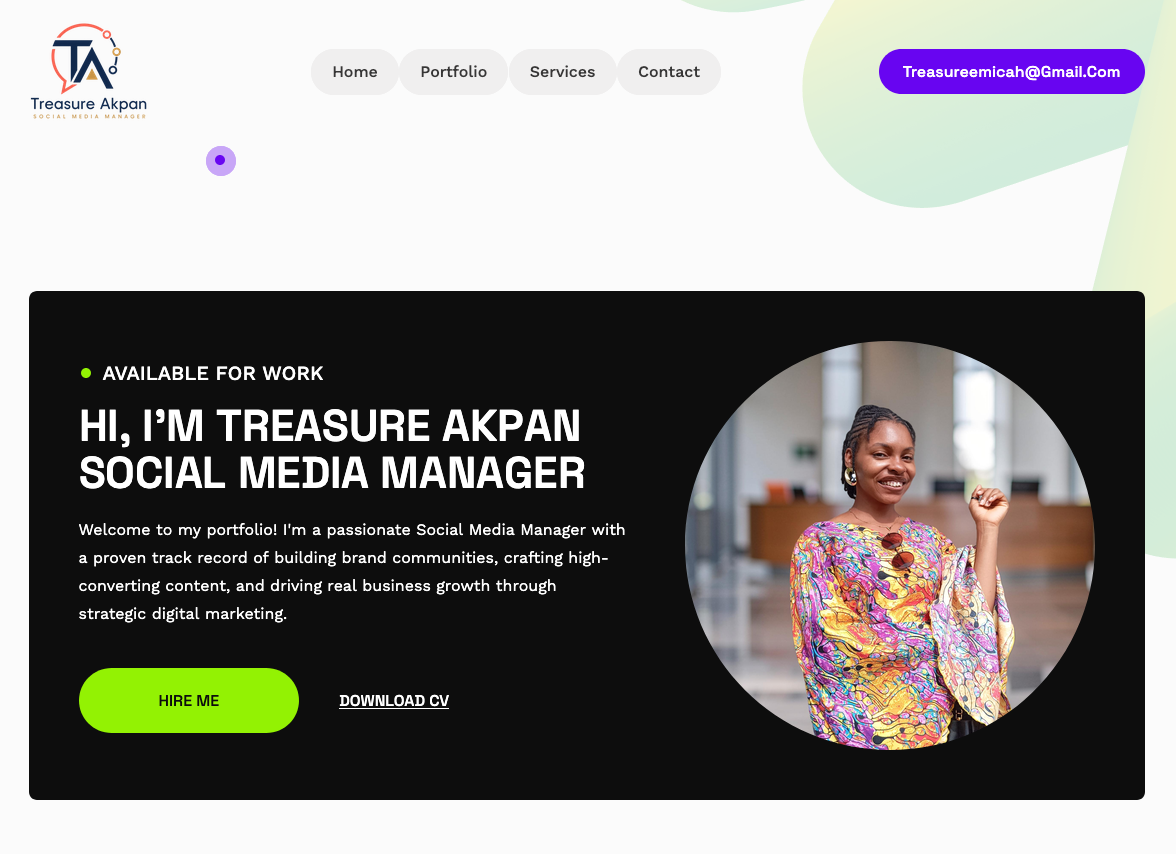
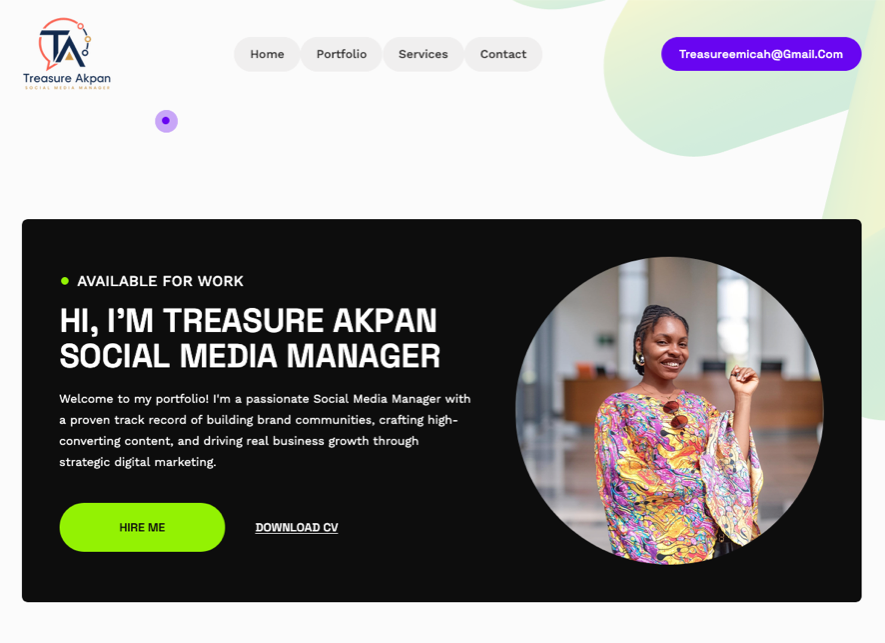
work

diff --git a/service-details.html b/service-details.html
@@ -13,16 +13,16 @@
         <!--<< Favcion >>-->
         <meta property="og:type" content="website">
         <meta property="og:site_name" content="Treasure Akpan – SMM Portfolio">
-        <meta property="og:url" content="https://treasureakpan.vercel.app/">
+        <meta property="og:url" content="https://treasure-akpan.vercel.app/">
         <meta property="og:title" content="Service Details – Treasure Akpan | SMM Portfolio">
         <meta property="og:description" content="Details on Treasure Akpan social media services">
-        <meta property="og:image" content="https://treasureakpan.vercel.app/assets/img/og-image.png">
+        <meta property="og:image" content="https://treasure-akpan.vercel.app/assets/img/og-image.png">
         <meta property="og:image:width" content="1200">
         <meta property="og:image:height" content="630">
         <meta name="twitter:card" content="summary_large_image">
         <meta name="twitter:title" content="Service Details – Treasure Akpan | SMM Portfolio">
         <meta name="twitter:description" content="Details on Treasure Akpan social media services">
-        <meta name="twitter:image" content="https://treasureakpan.vercel.app/assets/img/og-image.png">
+        <meta name="twitter:image" content="https://treasure-akpan.vercel.app/assets/img/og-image.png">
         <link rel="shortcut icon" href="assets/img/favicon.png">
         <!--<< Bootstrap min.css >>-->
         <link rel="stylesheet" href="assets/css/bootstrap.min.css">

diff --git a/project.html b/project.html
@@ -13,16 +13,16 @@
         <!--<< Favcion >>-->
         <meta property="og:type" content="website">
         <meta property="og:site_name" content="Treasure Akpan – SMM Portfolio">
-        <meta property="og:url" content="https://treasureakpan.vercel.app/">
+        <meta property="og:url" content="https://treasure-akpan.vercel.app/">
         <meta property="og:title" content="Portfolio – Treasure Akpan | SMM Portfolio">
         <meta property="og:description" content="Portfolio of Treasure Akpan social media projects">
-        <meta property="og:image" content="https://treasureakpan.vercel.app/assets/img/og-image.png">
+        <meta property="og:image" content="https://treasure-akpan.vercel.app/assets/img/og-image.png">
         <meta property="og:image:width" content="1200">
         <meta property="og:image:height" content="630">
         <meta name="twitter:card" content="summary_large_image">
         <meta name="twitter:title" content="Portfolio – Treasure Akpan | SMM Portfolio">
         <meta name="twitter:description" content="Portfolio of Treasure Akpan social media projects">
-        <meta name="twitter:image" content="https://treasureakpan.vercel.app/assets/img/og-image.png">
+        <meta name="twitter:image" content="https://treasure-akpan.vercel.app/assets/img/og-image.png">
         <link rel="shortcut icon" href="assets/img/favicon.png">
         <!--<< Bootstrap min.css >>-->
         <link rel="stylesheet" href="assets/css/bootstrap.min.css">

diff --git a/contact.html b/contact.html
@@ -13,16 +13,16 @@
         <!--<< Favcion >>-->
         <meta property="og:type" content="website">
         <meta property="og:site_name" content="Treasure Akpan – SMM Portfolio">
-        <meta property="og:url" content="https://treasureakpan.vercel.app/">
+        <meta property="og:url" content="https://treasure-akpan.vercel.app/">
         <meta property="og:title" content="Contact – Treasure Akpan | SMM Portfolio">
         <meta property="og:description" content="Contact Treasure Akpan for your social media needs">
-        <meta property="og:image" content="https://treasureakpan.vercel.app/assets/img/og-image.png">
+        <meta property="og:image" content="https://treasure-akpan.vercel.app/assets/img/og-image.png">
         <meta property="og:image:width" content="1200">
         <meta property="og:image:height" content="630">
         <meta name="twitter:card" content="summary_large_image">
         <meta name="twitter:title" content="Contact – Treasure Akpan | SMM Portfolio">
         <meta name="twitter:description" content="Contact Treasure Akpan for your social media needs">
-        <meta name="twitter:image" content="https://treasureakpan.vercel.app/assets/img/og-image.png">
+        <meta name="twitter:image" content="https://treasure-akpan.vercel.app/assets/img/og-image.png">
         <link rel="shortcut icon" href="assets/img/favicon.png">
         <!--<< Bootstrap min.css >>-->
         <link rel="stylesheet" href="assets/css/bootstrap.min.css">

diff --git a/service.html b/service.html
@@ -13,16 +13,16 @@
         <!--<< Favcion >>-->
         <meta property="og:type" content="website">
         <meta property="og:site_name" content="Treasure Akpan – SMM Portfolio">
-        <meta property="og:url" content="https://treasureakpan.vercel.app/">
+        <meta property="og:url" content="https://treasure-akpan.vercel.app/">
         <meta property="og:title" content="Services – Treasure Akpan | SMM Portfolio">
         <meta property="og:description" content="Social media services by Treasure Akpan">
-        <meta property="og:image" content="https://treasureakpan.vercel.app/assets/img/og-image.png">
+        <meta property="og:image" content="https://treasure-akpan.vercel.app/assets/img/og-image.png">
         <meta property="og:image:width" content="1200">
         <meta property="og:image:height" content="630">
         <meta name="twitter:card" content="summary_large_image">
         <meta name="twitter:title" content="Services – Treasure Akpan | SMM Portfolio">
         <meta name="twitter:description" content="Social media services by Treasure Akpan">
-        <meta name="twitter:image" content="https://treasureakpan.vercel.app/assets/img/og-image.png">
+        <meta name="twitter:image" content="https://treasure-akpan.vercel.app/assets/img/og-image.png">
         <link rel="shortcut icon" href="assets/img/favicon.png">
         <!--<< Bootstrap min.css >>-->
         <link rel="stylesheet" href="assets/css/bootstrap.min.css">

diff --git a/index.html b/index.html
@@ -13,16 +13,16 @@
         <!--<< Favcion >>-->
         <meta property="og:type" content="website">
         <meta property="og:site_name" content="Treasure Akpan – SMM Portfolio">
-        <meta property="og:url" content="https://treasureakpan.vercel.app/">
+        <meta property="og:url" content="https://treasure-akpan.vercel.app/">
         <meta property="og:title" content="Treasure Akpan – SMM Portfolio">
         <meta property="og:description" content="Treasure Akpan – Social Media Manager Portfolio">
-        <meta property="og:image" content="https://treasureakpan.vercel.app/assets/img/og-image.png">
+        <meta property="og:image" content="https://treasure-akpan.vercel.app/assets/img/og-image.png">
         <meta property="og:image:width" content="1200">
         <meta property="og:image:height" content="630">
         <meta name="twitter:card" content="summary_large_image">
         <meta name="twitter:title" content="Treasure Akpan – SMM Portfolio">
         <meta name="twitter:description" content="Treasure Akpan – Social Media Manager Portfolio">
-        <meta name="twitter:image" content="https://treasureakpan.vercel.app/assets/img/og-image.png">
+        <meta name="twitter:image" content="https://treasure-akpan.vercel.app/assets/img/og-image.png">
         <link rel="shortcut icon" href="assets/img/favicon.png">
         <!--<< Bootstrap min.css >>-->
         <link rel="stylesheet" href="assets/css/bootstrap.min.css">

diff --git a/project-details.html b/project-details.html
@@ -12,6 +12,18 @@
     <!-- ======== Page title ============ -->
     <title>Project Details – Treasure Akpan | SMM Portfolio</title>
     <!--<< Favcion >>-->
+    <meta property="og:type" content="website">
+    <meta property="og:site_name" content="Treasure Akpan – SMM Portfolio">
+    <meta property="og:url" content="https://treasure-akpan.vercel.app/">
+    <meta property="og:title" content="Project Details – Treasure Akpan | SMM Portfolio">
+    <meta property="og:description" content="Project details – Treasure Akpan SMM Portfolio">
+    <meta property="og:image" content="https://treasure-akpan.vercel.app/assets/img/og-image.png">
+    <meta property="og:image:width" content="1200">
+    <meta property="og:image:height" content="630">
+    <meta name="twitter:card" content="summary_large_image">
+    <meta name="twitter:title" content="Project Details – Treasure Akpan | SMM Portfolio">
+    <meta name="twitter:description" content="Project details – Treasure Akpan SMM Portfolio">
+    <meta name="twitter:image" content="https://treasure-akpan.vercel.app/assets/img/og-image.png">
     <link rel="shortcut icon" href="assets/img/favicon.png">
     <!--<< Bootstrap min.css >>-->
     <link rel="stylesheet" href="assets/css/bootstrap.min.css">

diff --git a/about.html b/about.html
@@ -12,6 +12,18 @@
     <!-- ======== Page title ============ -->
     <title>About – Treasure Akpan | SMM Portfolio</title>
     <!--<< Favcion >>-->
+    <meta property="og:type" content="website">
+    <meta property="og:site_name" content="Treasure Akpan – SMM Portfolio">
+    <meta property="og:url" content="https://treasure-akpan.vercel.app/">
+    <meta property="og:title" content="About – Treasure Akpan | SMM Portfolio">
+    <meta property="og:description" content="About Treasure Akpan – Social Media Manager Portfolio">
+    <meta property="og:image" content="https://treasure-akpan.vercel.app/assets/img/og-image.png">
+    <meta property="og:image:width" content="1200">
+    <meta property="og:image:height" content="630">
+    <meta name="twitter:card" content="summary_large_image">
+    <meta name="twitter:title" content="About – Treasure Akpan | SMM Portfolio">
+    <meta name="twitter:description" content="About Treasure Akpan – Social Media Manager Portfolio">
+    <meta name="twitter:image" content="https://treasure-akpan.vercel.app/assets/img/og-image.png">
     <link rel="shortcut icon" href="assets/img/favicon.png">
     <!--<< Bootstrap min.css >>-->
     <link rel="stylesheet" href="assets/css/bootstrap.min.css">
